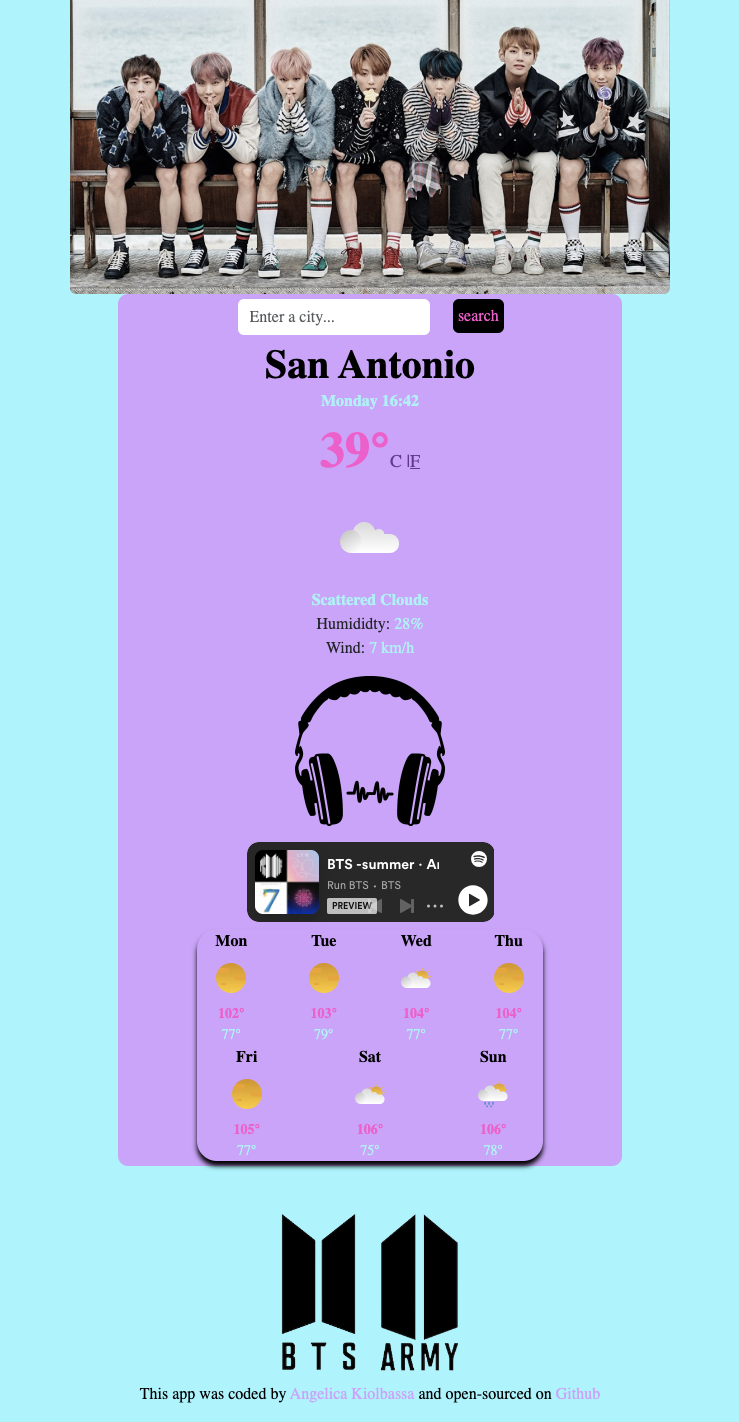
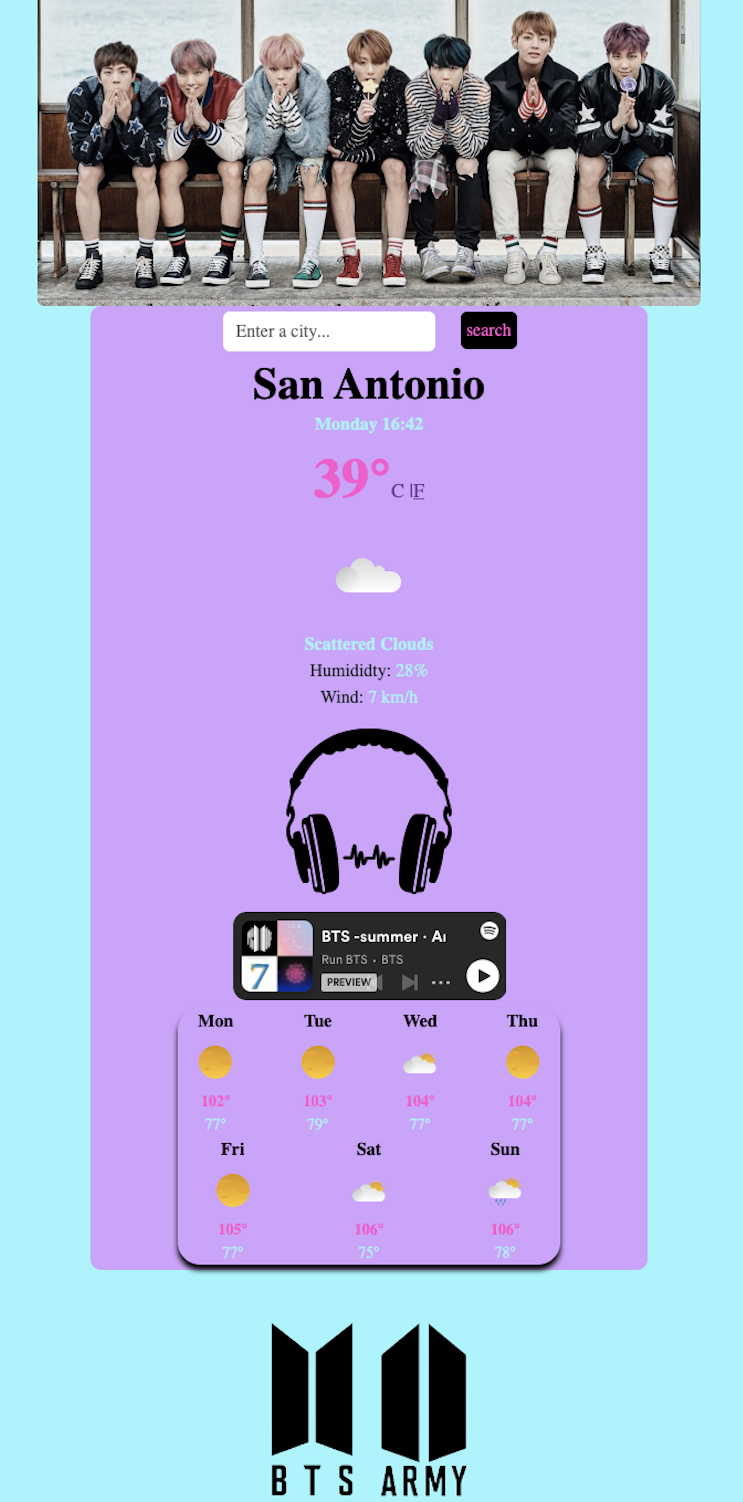
Added two new projects to portfolio
Added world clock and updated fall bts weather app descriptions, photos, links to projects page.

Changed region(s): [[0.0311, 0.0, 0.9648, 1.0], [0.1867, 0.9592, 0.2801, 0.9902], [0.7781, 0.9592, 0.8092, 0.9902]]

diff --git a/projects.HTML b/projects.HTML
@@ -20,6 +20,7 @@
 #link-1 {
     margin-left:1015px;
 }
+
     }
 
     @media (max-width:1415px){
@@ -27,6 +28,11 @@
         margin-left:0;
     }
 
+    @media (max-width: 765px) {
+    #clock-des {
+      margin-top: 5px;
+    }
+  }
     }
     </style>
 
@@ -64,31 +70,8 @@
     
 
 
-    <div class="container">
-      <div class="row">
-        <!-- <div class="col-md-6">
-          
-          <img src="images/art.png" class="img-fluid rounded d-none d-md-block" alt="art website screenshot"
-          id="art-app">
-        </div> -->
-
-        <!-- <div class="col-md-6 mt-5">
-          <h2 class="mb-3" id="art-des">Art Website</h2>
-          <p>
-          This art website was built as a project for SheCodes basic website workshop. It was coded with Vanilla Javascript as a beginner project.  -->
-<!-- <br />
-<br /> -->
-          <!-- <span> <strong>HTML  ⦁    CSS    ⦁   Javascript</strong></span>
-          </p>
-            <div class="mt-5">
-             <a class="btn btn-primary" role="button" aria-disabled="false" 
-             target="_blank"
-             href="https://www.shecodes.io/workshops/shecodes-basics-3465164f-44e1-41c3-b91c-b2e5fdf48939/projects/1579937"  > Launch art website</a>
-             </div> -->
-          </div>
-        </div>
      
-
+ <div class="container">
       <div class="row">
         <div class="col-md-6">
           <h2 class="mb-3" id="weather-des">Weather app</h2>
@@ -104,30 +87,47 @@
         <a class="btn btn-primary" role="button" aria-disabled="false" 
         target="_blank"
         href="https://seasonweatherapp.netlify.app/" > Launch weather app</a>
-
-
-
           </div>
         </div>
     
         <div class="col-md-6">
           <img src="images/weather.png" class="img-fluid rounded d-none d-md-block" alt="weather app photo"
-          width="550"
+          width="350"
           id="weather-app">
         </div>
      </div>
+</div>
 
 
+ <div class="container">
+      <div class="row"> 
+         <div class="col-md-6">
+          
+          <img src="images/worldclock.png" class="img-fluid rounded d-none d-md-block" alt="world clock"
+          width="400"
+          id="clock-app">
+        </div> 
+
+         <div class="col-md-6 mt-5">
+          <h2 class="mb-3" id="clock-des">World Clock</h2>
+          <p>
+          This project was created with vanilla JavaScript. I used bootstrap, moment.js and moment.tz to get time zones from several locations around the world. It features a current location feature and a reset button to refresh the page. The design is meant to compare different locations as well as a current location at the same time. 
+ <br />
+<br /> 
+          <span> <strong>HTML  ⦁    CSS    ⦁   Javascript ⦁   Bootstrap</strong></span>
+          </p>
+            <div class="mt-5">
+             <a class="btn btn-primary" role="button" aria-disabled="false" 
+             target="_blank"
+             href="https://plus-addon-worldclock.netlify.app/"  > Launch art website</a>
+             </div> 
+         </div>
+        </div> 
 
    <div class="container">
       <div class="row">
-        <div class="col-md-6">
-          <img src="images/btsweatherapp.png" class="img-fluid rounded d-none d-md-block" alt="art website screenshot"
-          id="art-app">
-        </div>
-
-        <div class="col-md-6 mt-5">
-          <h2 class="mb-3" id="art-des">BTS Weather app</h2>
+        <div class="col mt-5">
+          <h2 class="mb-3" id="bts-des">BTS Weather app</h2>
           <p>
           This weather app was built with React.js with features from bootstrap. I used the SheCodes weather API and it features a celsius and fahrenheit option along with a seven day forecast.This Weather App will feature a seasonal theme that gets updated every season with a change in color scheme, photos and music feature. 
 <br />
@@ -139,11 +139,25 @@
              target="_blank"
              href="https://btsweatherapp.netlify.app/"  > Launch BTS weather app</a>
              </div>
-          </div>
+             </div>
+           
+            <div class="col-md-6 mt-5">
+          <img src="images/btsweatherapp.png" class="img-fluid rounded d-none d-md-block" alt="bts weather app"
+          width="300"
+          height="350"
+          id="bts-app-one">
+            </div>
+        
+<div class="col-md-6 ">
+          <img src="images/btsweatherfall.png" class="img-fluid rounded d-none d-md-block" alt="bts weather app"
+          width="300"
+          height="350"
+          id="bts-app-two">
+</div>
+        
+         </div>
         </div>
-
-
-
+       
 
 <div class="container mt-5">
      <div id="design">
@@ -152,7 +166,7 @@ Design
 
 
 <div class="design-details">
-  My process for design begins with collecting information from my client and sketching a rough outline on paper. I then progress to a basic wireframe for the over all layout and finally move on to a detailed mockup so I can start the coding phase. 
+  My process for design begins with a basic wireframe for the over all layout and then I create a detailed mockup so I can start the coding phase. 
 
 <br />
 <br />

diff --git a/style.css b/style.css
@@ -2,7 +2,6 @@ body {
   margin: 0 auto;
   text-align: center;
   font-family: "Gill Sans", "Gill Sans MT", Calibri, "Trebuchet MS", sans-serif;
-  
 }
 
 footer {
@@ -22,12 +21,12 @@ li {
 }
 
 p {
-  color:#473b5b;
+  color: #473b5b;
 }
 
 .btn-primary {
   background: #473b5b !important;
-  border-color: #473b5b!important;
+  border-color: #473b5b !important;
   color: #e5989b !important;
 }
 
@@ -39,19 +38,18 @@ p {
 }
 
 .call-button {
-border-radius: 10px;
-background: #473b5b;
+  border-radius: 10px;
+  background: #473b5b;
 }
 
 .call-me {
-text-decoration: none;
-color: #fff;
+  text-decoration: none;
+  color: #fff;
 }
 
 .call-me:hover {
-color: #ffb4a2;
+  color: #ffb4a2;
 }
-
 
 .contact-header {
   display: block;
@@ -87,13 +85,12 @@ color: #ffb4a2;
   color: #ffb4a2;
 }
 
-
 .header {
   color: #b5838d;
 }
 
 .media-body {
-  color:#473b5b;
+  color: #473b5b;
 }
 
 .navbar-nav {
@@ -101,10 +98,9 @@ color: #ffb4a2;
 }
 
 .nav-link {
-  color: #E5989B;
+  color: #e5989b;
   font-weight: bold;
 }
-
 
 #about-me {
   max-width: 80ch;
@@ -112,23 +108,23 @@ color: #ffb4a2;
   color: #473b5b;
 }
 
-#art {
-  margin-top: 60px;
-  color: #3e887e;
-  font-weight: bold;
+/* #bts-pic {
+  margin-top: 100px;
+} */
+
+#bts-app-one {
+  margin: 0 auto;
 }
 
-#art-pic {
-  margin-top: 100px;
+#bts-app-two {
+  margin: 0 auto;
 }
 
-#art-app {
-  margin-top: 100px;
-}
-
-#art-des {
-  margin-top: 100px;
+#bts-des {
+  text-align: center;
+  margin-top: 90px;
   color: #ffb4a2;
+  max-width: 80ch;
 }
 
 #contact-icons {
@@ -137,7 +133,7 @@ color: #ffb4a2;
 
 #contact-btn {
   background: #473b5b !important;
-  border-color: #473b5b!important;
+  border-color: #473b5b !important;
   color: #e5989b !important;
 }
 
@@ -163,13 +159,13 @@ color: #ffb4a2;
 
 #headline {
   font-family: Lora !important;
-  color: #E5989B;
+  color: #e5989b;
   margin: 0 auto;
 }
 
 #name {
-  cursor:default;
-color: #fff;
+  cursor: default;
+  color: #fff;
 }
 
 #navigation {
@@ -178,21 +174,31 @@ color: #fff;
 
 #nav-pic {
   border-radius: 50%;
-  cursor:default;
+  cursor: default;
 }
 
 #photo2 {
   border-radius: 50%;
   margin-top: 85px;
-  margin 0 auto;
+  margin: 0 auto;
 }
 
 #weather-app {
   margin-top: 60px;
-  margin-left: 40px;
+  margin-left: 60px;
 }
 
 #weather-des {
-  margin-top: 150px;
+  margin-top: 200px;
+  color: #ffb4a2;
+}
+
+#clock-app {
+  margin-top: 60px;
+  padding: 0px;
+}
+
+#clock-des {
+  margin-top: 130px;
   color: #ffb4a2;
 }

diff --git a/contact.HTML b/contact.HTML
@@ -21,9 +21,7 @@
 #link-1 {
     margin-left:1015px;
 }
-#gambit {
-float: end;
-}
+
     }
 
     @media (max-width:1415px){
